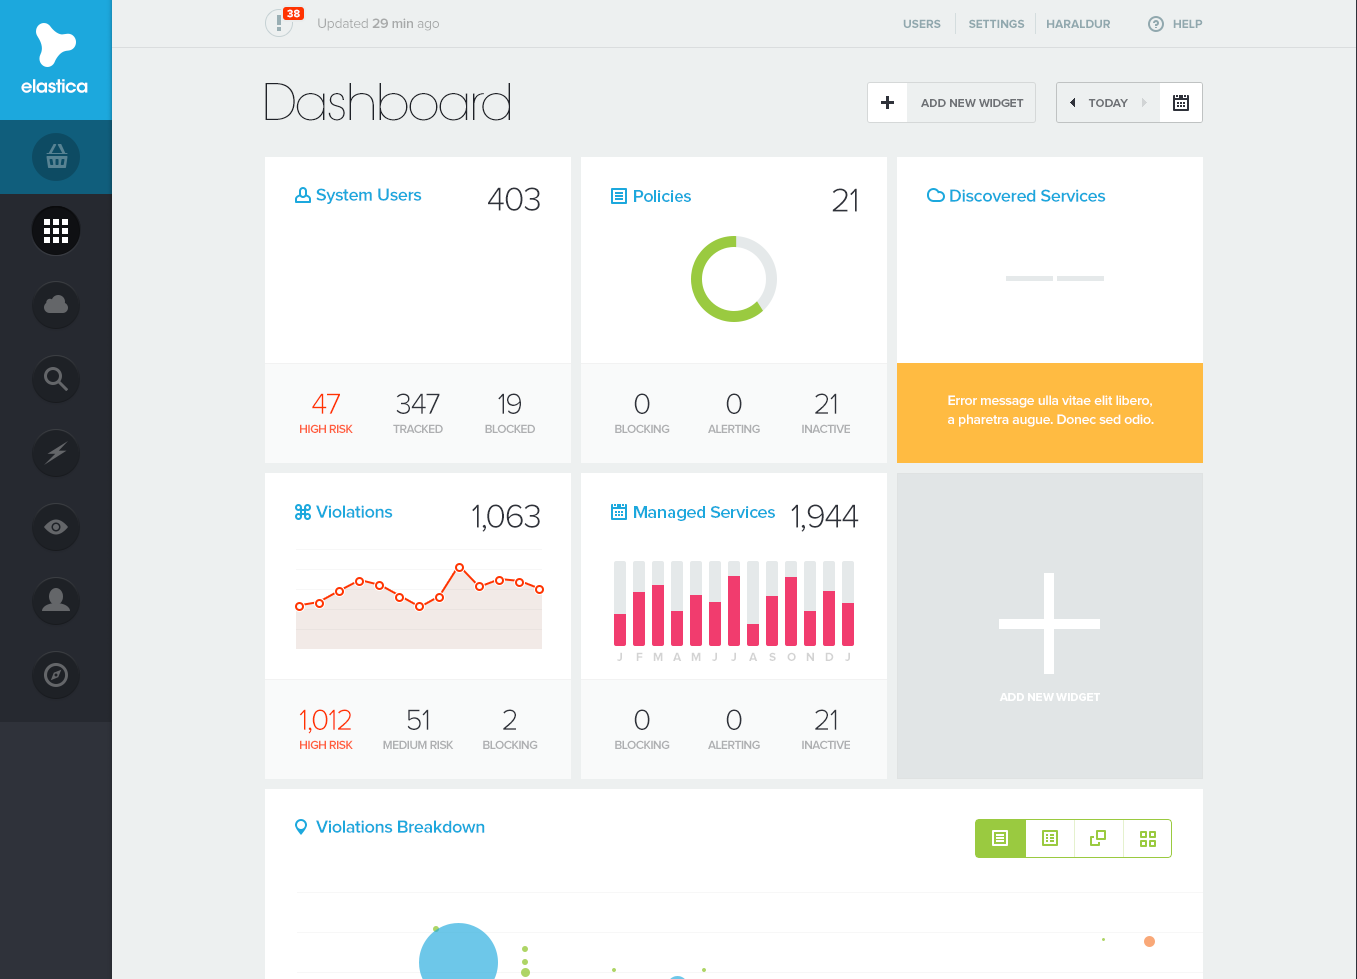
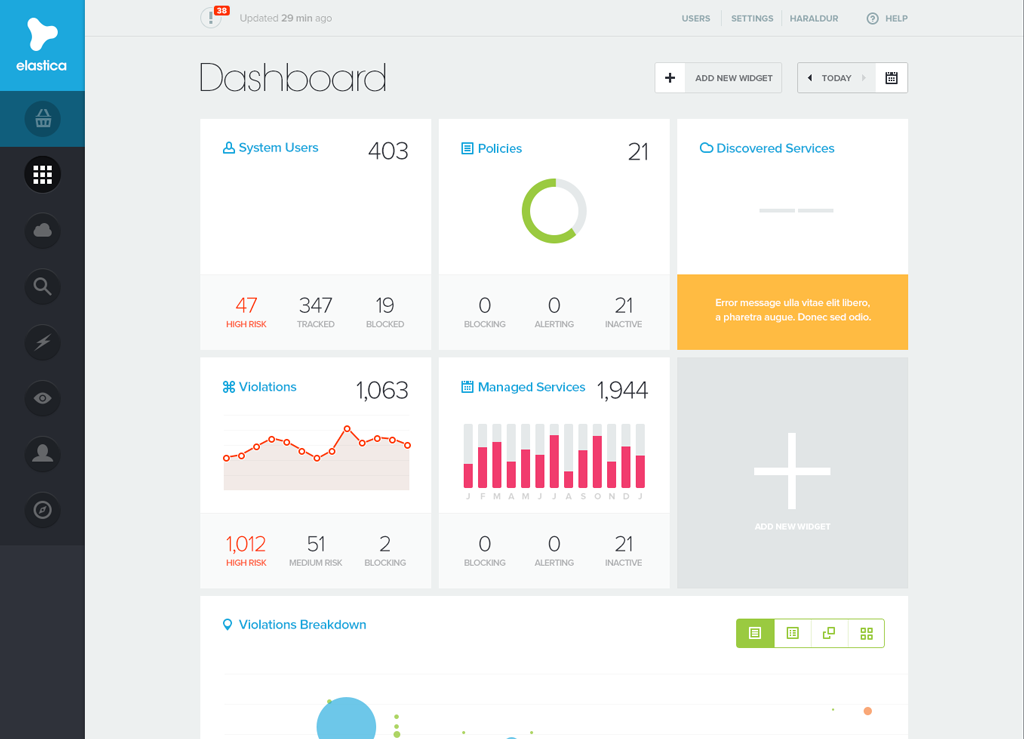
Save for web nas images

diff --git a/big_data_in_procurement_research.md b/big_data_in_procurement_research.md
@@ -1,3 +1,5 @@
 # Big Data in Procurement - Research
 ## Basic Layout 
-![image](/layout/dashboard-layout-01.png)
+![image](https://claudioccm.github.io/big-data-proc-research/layout/dashboard-layout-01.png)
+
+basic layout
